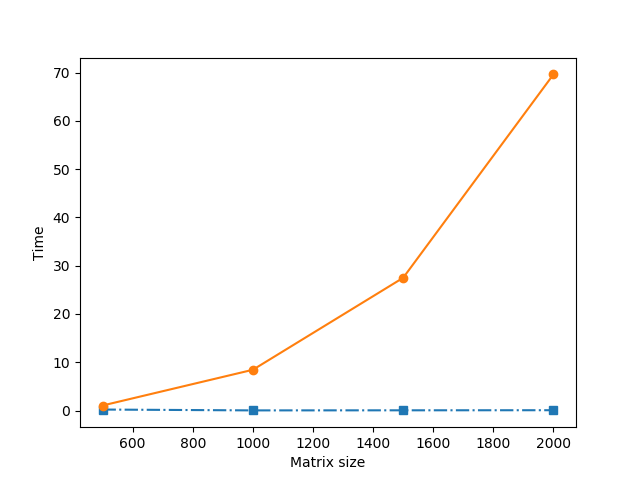
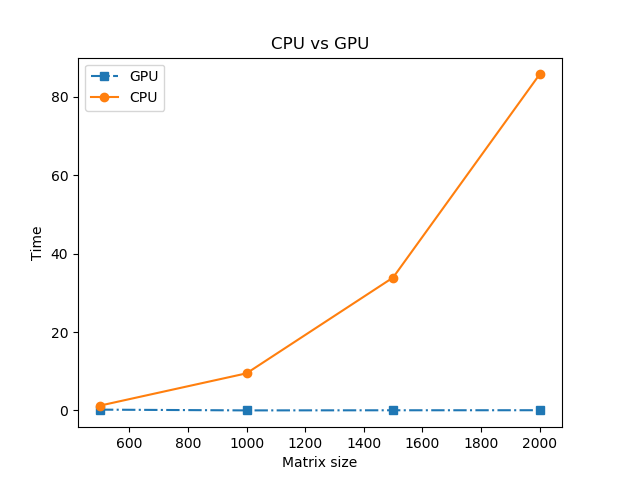
Update the plot

diff --git a/test_tf_mx150.py b/test_tf_mx150.py
@@ -50,4 +50,6 @@ plt.plot(matrix_sizes[:len(gpu_times)], gpu_times, 's-.')
 plt.plot(matrix_sizes[:len(cpu_times)], cpu_times, 'o-')
 plt.ylabel('Time')
 plt.xlabel('Matrix size')
+plt.title('CPU vs GPU')
+plt.legend(['GPU', 'CPU'])
 plt.show()
